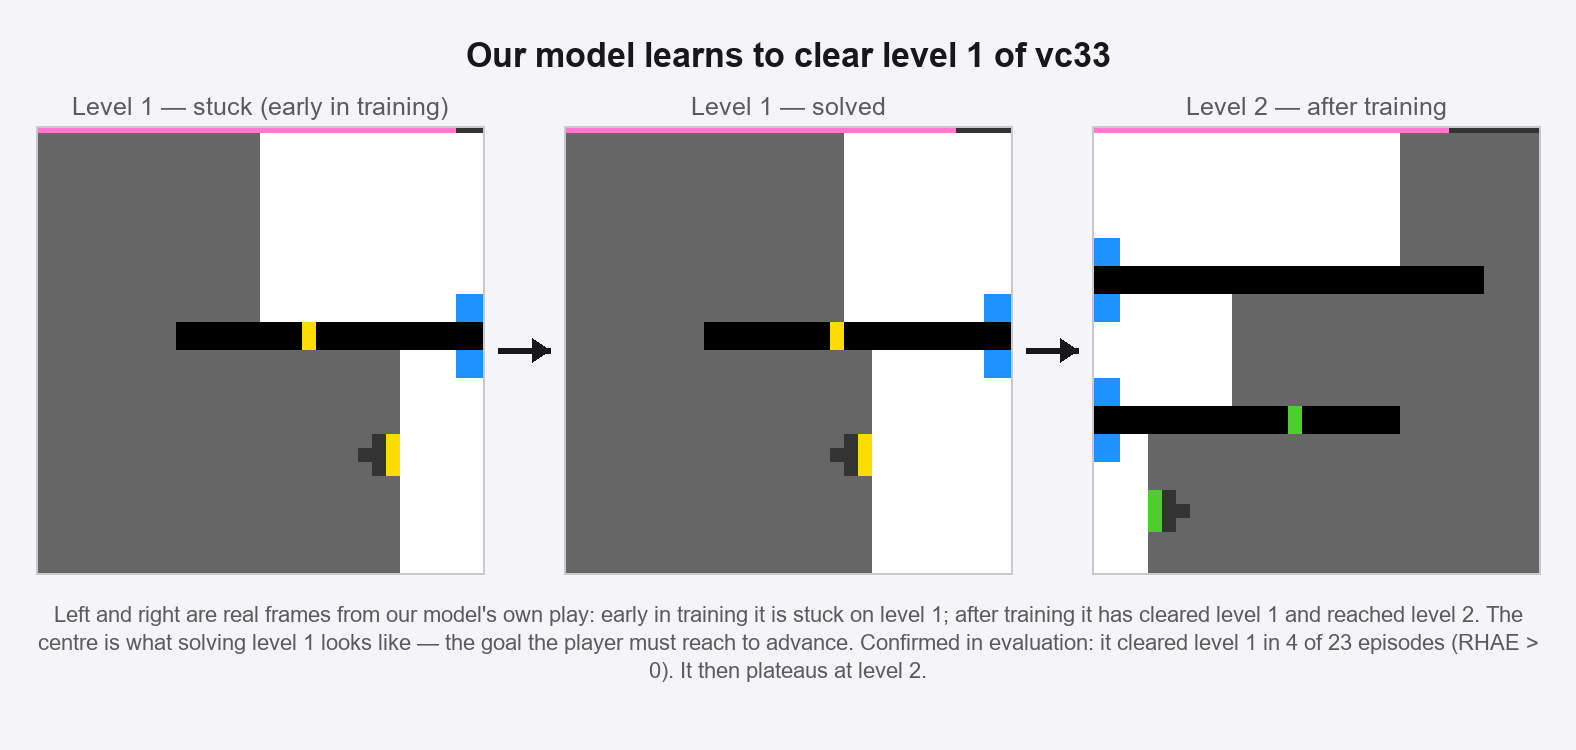
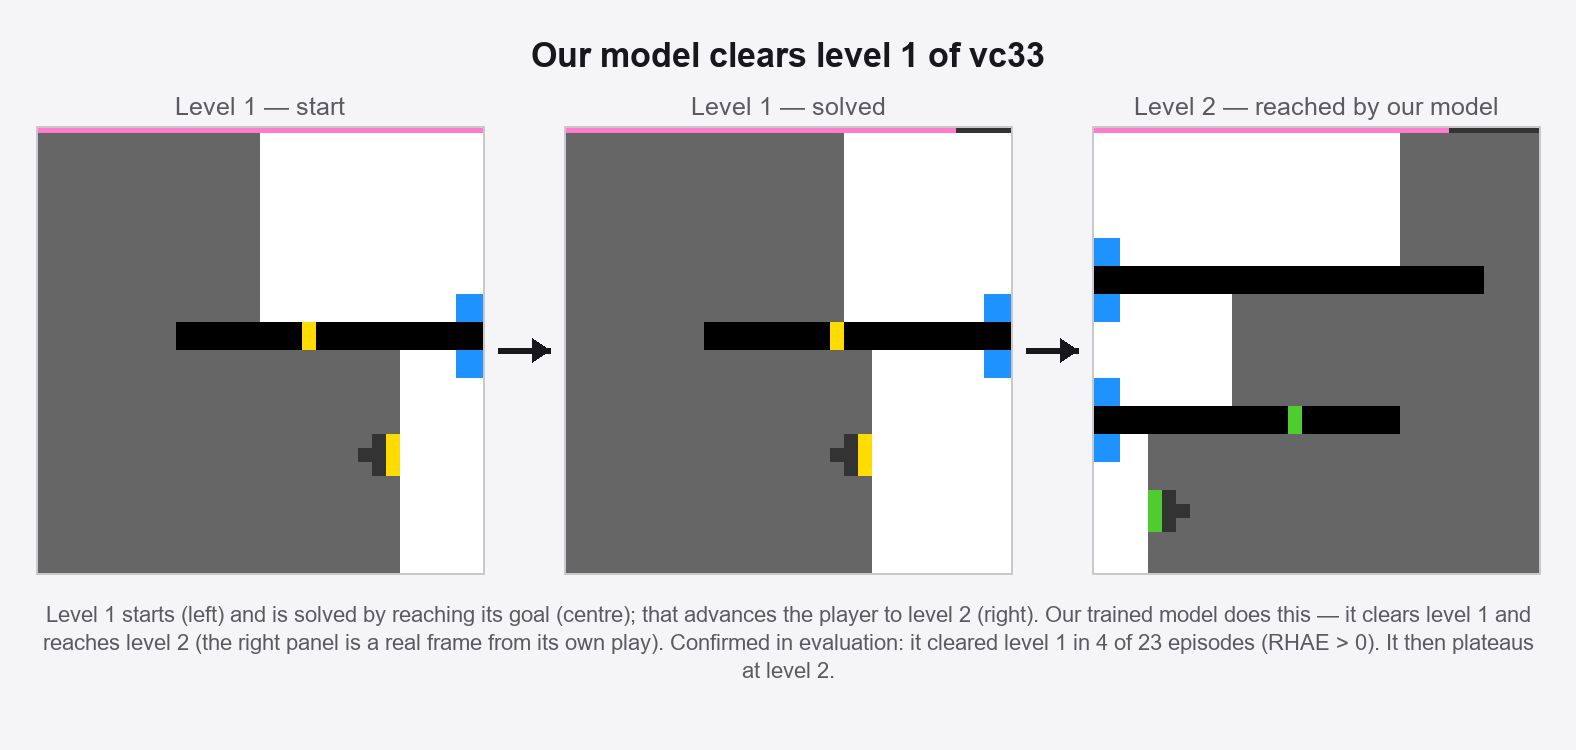
fix(soumya): use the verified actual first frame for fig4 panel 1
Panel 1 used early-rollout frame 3, not the true first frame. Verified the
genuine vc33 level-1 initial observation by resetting the real env: it is
pixel-identical (diff 0.0) to env.reset(), the human replay row 0, and the
model's own frame 0. fig4 now uses that actual first frame.

Reframed fig4 as a clean progression: Level 1 start -> Level 1 solved ->
Level 2 (reached by our model). Left = verified first frame, centre = level-1
goal state (replay), right = real trained-model frame (level 2 = cleared L1).
RAW left renamed fig4_left_vc33_level1_start.png. README updated.

diff --git a/scripts/make_soumya_figures.py b/scripts/make_soumya_figures.py
@@ -299,26 +299,23 @@ def _hframe(rows, i):
 def task_and_rollouts():
     rows = _human_rows()
     # ---- SOLVED by our model: a 3-step progression ----
-    # Left/right are real model frames (early training -> stuck on level 1; late
-    # training -> on level 2, having cleared level 1; verified by matching every
-    # frame to the human level dictionary). The centre is the level-1 solved state
-    # (its goal configuration, from the human replay) — what clearing level 1
-    # means. No single model rollout captured the L1->solved transition itself.
-    vw = gif_frames(VC33_POLICY)        # late training  -> level 2 (cleared level 1)
-    ve_gif = next((PULL / "p4-vc33-s0-warm-98de390/media/videos/epstats")
-                  .glob("policy_image_135733_*.gif"))
-    ve = gif_frames(ve_gif)             # early training -> still stuck on level 1
+    # Panel 1 is the genuine first observation of vc33 level 1 (verified pixel-
+    # identical to env.reset() and to the model's own frame 0). Panel 2 is the
+    # level-1 solved/goal state (the level-up happens on the next replay row).
+    # Panel 3 is a real frame from the trained model's play — level 2, i.e. it
+    # cleared level 1 (verified by matching the human level dictionary).
+    vw = gif_frames(VC33_POLICY)        # trained policy -> level 2 (cleared level 1)
     level_ladder(
         [
-            (upscale(ve[3], 7), "Level 1 — stuck (early in training)"),
+            (upscale(_hframe(rows, 0), 7), "Level 1 — start"),
             (upscale(_hframe(rows, 6), 7), "Level 1 — solved"),
-            (upscale(vw[469], 7), "Level 2 — after training"),
+            (upscale(vw[469], 7), "Level 2 — reached by our model"),
         ],
-        "Our model learns to clear level 1 of vc33",
-        "Left and right are real frames from our model's own play: early in training it is stuck on "
-        "level 1; after training it has cleared level 1 and reached level 2. The centre is what "
-        "solving level 1 looks like — the goal the player must reach to advance. Confirmed in "
-        "evaluation: it cleared level 1 in 4 of 23 episodes (RHAE > 0). It then plateaus at level 2.",
+        "Our model clears level 1 of vc33",
+        "Level 1 starts (left) and is solved by reaching its goal (centre); that advances the player "
+        "to level 2 (right). Our trained model does this — it clears level 1 and reaches level 2 "
+        "(the right panel is a real frame from its own play). Confirmed in evaluation: it cleared "
+        "level 1 in 4 of 23 episodes (RHAE > 0). It then plateaus at level 2.",
         "fig4_solved_vc33.png",
     )
 
@@ -387,13 +384,11 @@ def export_raw():
     raw.mkdir(parents=True, exist_ok=True)
     rows = _human_rows()
     vw = gif_frames(VC33_POLICY)
-    ve = gif_frames(next((PULL / "p4-vc33-s0-warm-98de390/media/videos/epstats")
-                         .glob("policy_image_135733_*.gif")))
     sb = gif_frames(next((PULL / "p4-sb26-s0-warm-98de390/media/videos/epstats").glob("*.gif")))
 
     items = {
-        # fig4 — 3-step progression: stuck on L1 -> L1 solved -> L2
-        "fig4_left_vc33_early_stuck_level1.png": upscale(ve[3], 8),
+        # fig4 — 3-step progression: L1 start -> L1 solved -> L2 (model)
+        "fig4_left_vc33_level1_start.png": upscale(_hframe(rows, 0), 8),
         "fig4_mid_vc33_level1_solved.png": upscale(_hframe(rows, 6), 8),
         "fig4_right_vc33_trained_level2.png": upscale(vw[469], 8),
         # fig5 — not solved by our model (sb26)

diff --git a/docs/figures/soumya/README.md b/docs/figures/soumya/README.md
@@ -67,7 +67,7 @@ intuition and a real result as evidence):
 
 | Figure | Shows | File |
 |---|---|---|
-| 4 | A task our model learns to **SOLVE** (vc33), as a 3-step progression: Level 1 stuck (early training) → Level 1 solved → Level 2 (after training). Left/right are real model frames; centre is the level-1 goal state. | `fig4_solved_vc33.png` |
+| 4 | A task our model **SOLVES** (vc33), as a 3-step progression: Level 1 start → Level 1 solved → Level 2 (reached by our model). Left = the verified first frame; right = a real trained-model frame. | `fig4_solved_vc33.png` |
 | 5 | A task our model does **NOT solve** (sb26, a colour-matching puzzle): start → after the agent acts. It places a couple of tiles but never completes the puzzle. | `fig5_notsolved_sb26.png` |
 
 (The standalone "generic ARC task" figure was dropped — its solved frame now
@@ -81,7 +81,7 @@ already covered.)
 captions** (8× nearest-neighbour upscaled, 512×512), to drop into the paper and
 caption yourself. Names map to the composed figures:
 
-- `fig4_left_vc33_early_stuck_level1.png`, `fig4_mid_vc33_level1_solved.png`, `fig4_right_vc33_trained_level2.png`
+- `fig4_left_vc33_level1_start.png`, `fig4_mid_vc33_level1_solved.png`, `fig4_right_vc33_trained_level2.png`
 - `fig5_left_sb26_start.png`, `fig5_right_sb26_after.png`
 - `fig2_wm_reconstruction_panel.png` (top half = real game, bottom half = WM
   prediction; the red borders are DreamerV3's own open-loop marker, not added)
@@ -90,21 +90,21 @@ caption yourself. Names map to the composed figures:
 
 ### How fig 4 was verified (and a caveat)
 
-We matched every logged rollout frame to a frame from the human win replay (where
-each level is labelled). The result, by training step (vc33 seed 0):
+- **Left ("Level 1 — start")** is the genuine first observation of vc33 level 1 —
+  verified **pixel-identical** to `env.reset()`, to the human replay's row 0, and
+  to the trained model's own frame 0.
+- **Centre ("Level 1 — solved")** is the level-1 goal configuration (human replay
+  row 6; the level-up to level 2 happens on the next row).
+- **Right ("Level 2 — reached by our model")** is a real frame from the trained
+  policy's rollout. We confirmed it is level 2 (not level 1) by matching every
+  rollout frame to the human level dictionary: vc33 rollouts are 100% level 1 up
+  to ~step 226k and 100% level 2 from ~step 271k — i.e. the model learns to clear
+  level 1. No single rollout captured the level-1 → solved transition, which is
+  why the centre comes from the replay rather than the model.
 
-- **Steps 0 → ~226k: every rollout frame is on level 1** (the model is stuck).
-- **Steps ~271k → 493k: every rollout frame is on level 2** (it now clears level 1).
-
-So the model demonstrably *learns* to clear level 1 — left and right panels of
-fig 4 are real model frames from those two phases. The **centre** ("Level 1
-solved") is the level's goal configuration, taken from the human replay: no
-single model rollout captured the level-1 → solved transition itself (each GIF is
-entirely level 1 or entirely level 2), and the model passes through this goal
-state when it clears level 1. **Visual caveat:** in vc33 the stuck and solved
-level-1 states look nearly identical (solving is a small, precise change); the
-obvious visual jump is to level 2. (The two model frames are early-training
-step 135733 and the final policy.)
+**Visual caveat:** in vc33 the level-1 start and solved states look nearly
+identical (solving is a small, precise change); the obvious visual jump is to
+level 2.
 
 Caveats worth knowing before this goes in the paper:
 
@@ -134,9 +134,9 @@ Caveats worth knowing before this goes in the paper:
 > **A picture of a world model** — `fig1` is a schematic; `fig2` is a real result
 > from our run showing the model predicting the game's future on its own.
 >
-> **Initial → end states** — `fig4` (a game our model learns to solve: stuck on
-> level 1 → level 1 solved → on level 2 after training), `fig5` (a game it does
-> not, sb26 — the agent places a couple of tiles but never completes the puzzle).
+> **Initial → end states** — `fig4` (a game our model solves: level 1 start →
+> level 1 solved → level 2, reached by our model), `fig5` (a game it does not,
+> sb26 — the agent places a couple of tiles but never completes the puzzle).
 >
 > [paste the two paragraphs from §1]
 >